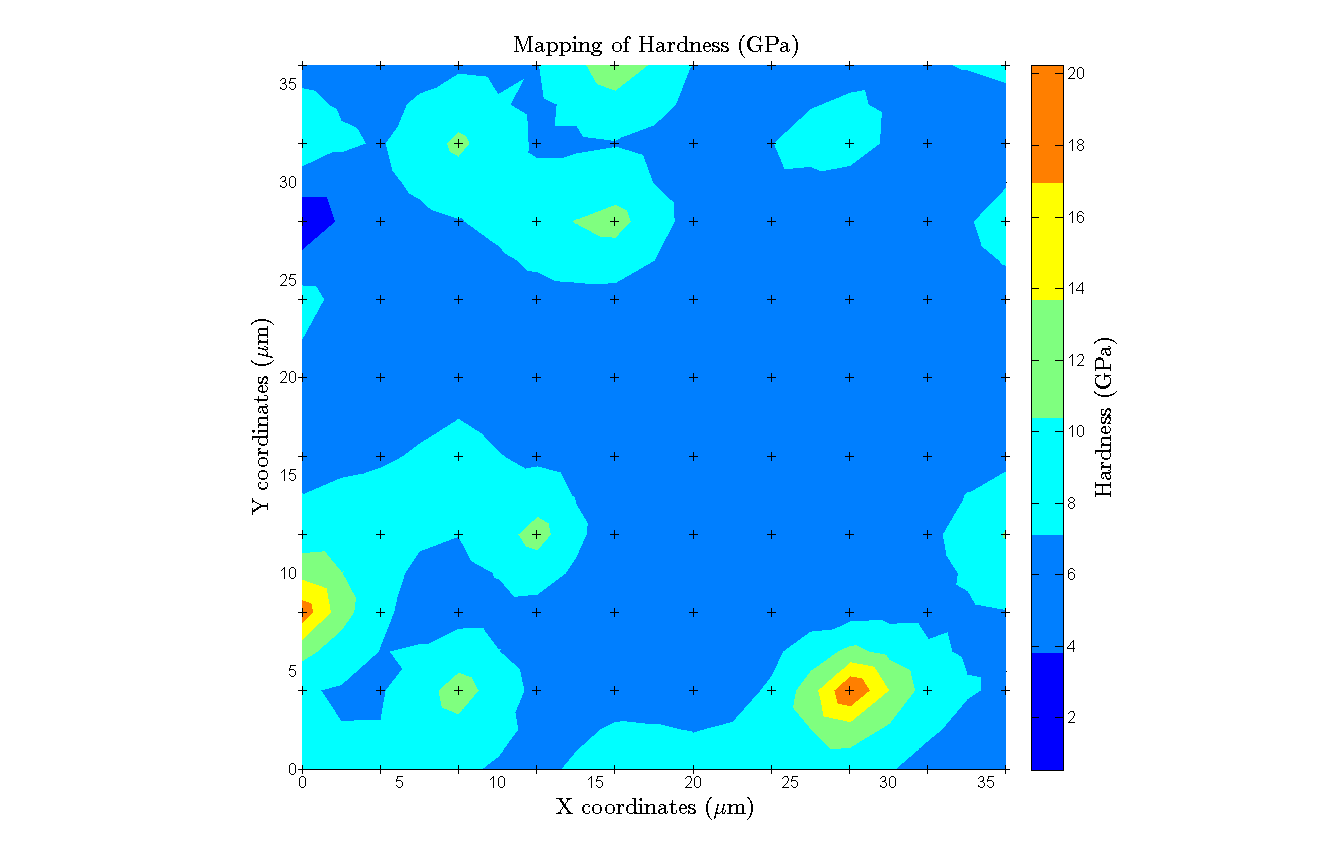
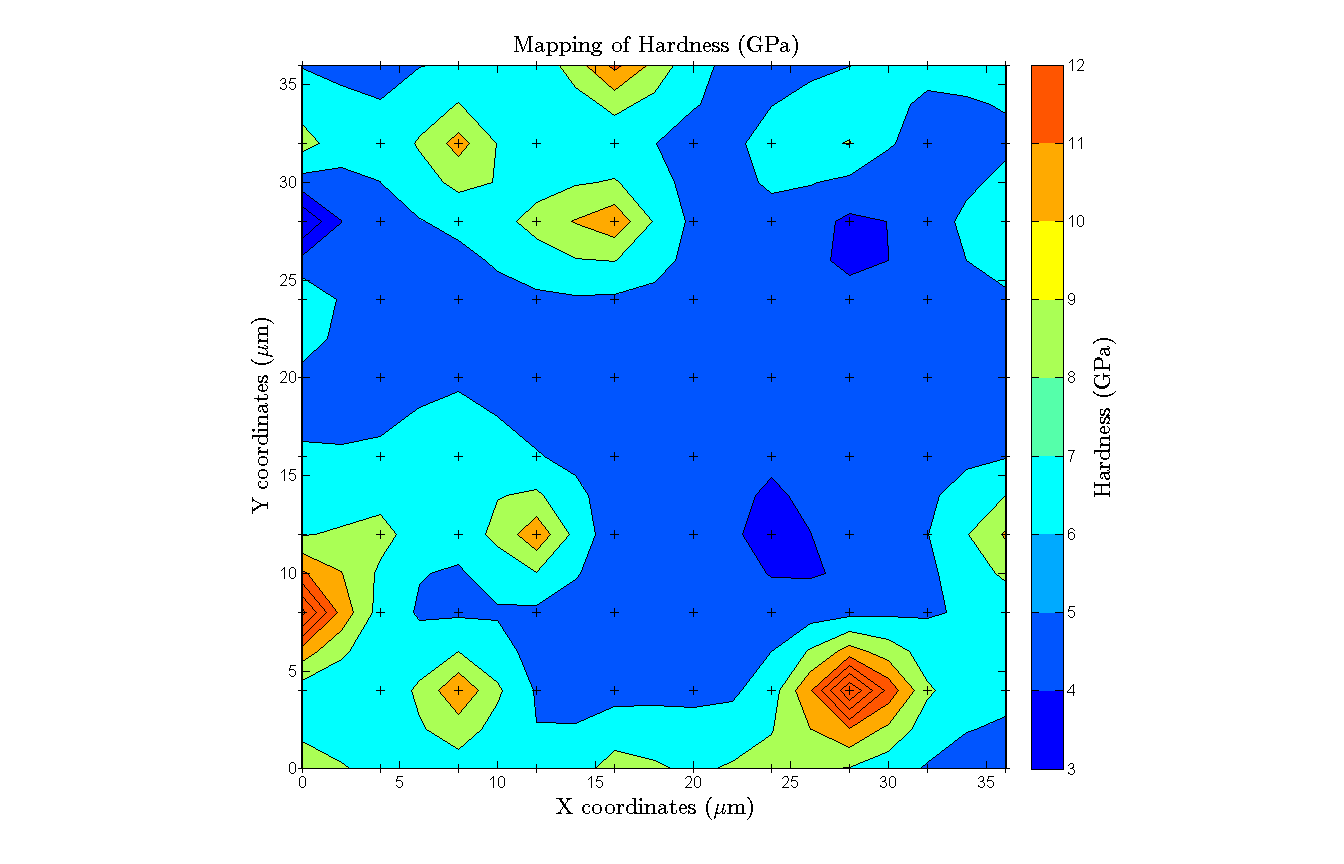
updated readme and pictures

diff --git a/demo.m b/demo.m
@@ -61,23 +61,19 @@ gui.config.angleRotation_default = 0; % Default rotation angle of the indentatio
 % Map / Colorbar setting
 gui.config.contourPlot = 1; % Boolean to plot contours
 gui.config.Markers = 1; % Boolean to plot markers
-gui.config.intervalScaleBar_H = 7; % Number of interval on the scale bar for hardness
+gui.config.intervalScaleBar_H = 9; % Number of interval on the scale bar for hardness
 gui.config.intervalScaleBar_YM = 10; % Number of interval on the scale bar for elastic modulus
 % 0 if continuous scalebar, and 5 to 10 to set interval number
-gui.config.scaleAxis = 1; % Boolean to set color scale
+gui.config.scaleAxis = 0; % Boolean to set color scale
 gui.config.H_cmin = 3; % in GPa
-gui.config.H_cmax = 10; %in GPa
+gui.config.H_cmax = 12; %in GPa
 gui.config.YM_cmin = 150; % in GPa
 gui.config.YM_cmax = 250; % in GPa
 gui.config.FontSizeVal = 14;
 
 if gui.config.rawData
-    gui.config.normalizationStep = 0;
-    gui.config.translationStep = 0;
-    gui.config.noNan = 0;
-    gui.config.interpBool = 0;
-    gui.config.smoothBool = 0;
-    gui.config.binarizedGrid = 0;
+    %gui.config.smoothBool = 0;
+    %gui.config.binarizedGrid = 0;
 end
 
 %% Load data from Excel files

diff --git a/README.rst b/README.rst
@@ -46,46 +46,58 @@ Screenshots
    :scale: 50 %
    :align: center
    
-   *3D raw mapping of mechanical properties.*
+   *3D raw mapping of mechanical properties (pixel grid).*
+   
+.. figure:: pictures/0_hardnessMap_rawData_Interp.png
+   :scale: 50 %
+   :align: center
+   
+   *3D raw mapping of mechanical properties with interpolation (pixel grid).*
+
+.. figure:: pictures/0_hardnessMap_rawData_Interp_Binarized.png
+   :scale: 50 %
+   :align: center
+   
+   *3D raw mapping of mechanical properties with interpolation and binarization (pixel grid).*   
    
 .. figure:: pictures/1_hardnessMap_noInterp_noSmooth.png
    :scale: 50 %
    :align: center
    
-   *3D raw mapping of mechanical properties without interpolation and smoothing.*
+   *3D raw mapping of mechanical properties without interpolation and smoothing (surf function).*
    
 .. figure:: pictures/2_hardnessMap_Interp_noSmooth.png
    :scale: 50 %
    :align: center
    
-   *3D mapping of mechanical properties with interpolation and no smoothing.*
+   *3D mapping of mechanical properties with interpolation and no smoothing (surf function).*
 
 .. figure:: pictures/3_hardnessMap_Interp_Smooth.png
    :scale: 50 %
    :align: center
    
-   *3D mapping of mechanical properties with interpolation and smoothing.*
+   *3D mapping of mechanical properties with interpolation and smoothing (surf function).*
    
 .. figure:: pictures/3_hardnessDiffMap_InterpSmooth.png
    :scale: 25 %
    :align: center
    
-   *Difference map of mechanical properties between interpolated and smoothed data.*
+   *Difference map of mechanical properties between interpolated and smoothed data (surf function).*
    
 .. figure:: pictures/4_hardnessMap_Interp_Smooth_Binarized.png
    :scale: 50 %
    :align: center
    
-   *3D mapping of mechanical properties with interpolation, smoothing and binarization.*
+   *3D mapping of mechanical properties with interpolation, smoothing and binarization (surf function).*
    
 .. figure:: pictures/4_hardnessDiffMap_Interp_Smooth_Binarized.png
    :scale: 25 %
    :align: center
    
-   *Difference map of mechanical properties between interpolated and smoothed/binarized data.*
+   *Difference map of mechanical properties between interpolated and smoothed/binarized data (surf function).*
    
 .. figure:: pictures/5_hardnessMap_Interp_Smooth_Discretized.png
    :scale: 50 %
    :align: center
    
-   *3D mapping of mechanical properties with interpolation, smoothing and with a discretized scale bar.*  
+   *3D mapping of mechanical properties with interpolation, smoothing and with a discretized scale bar (surf function).*  
